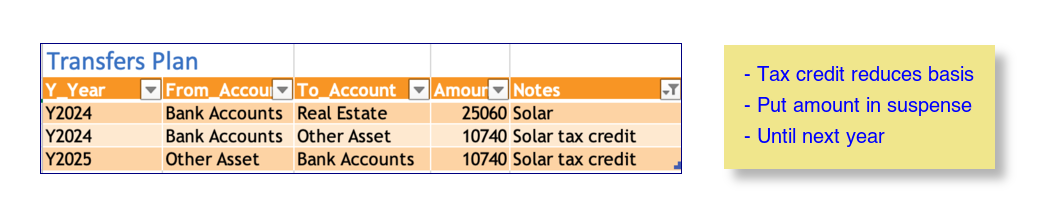
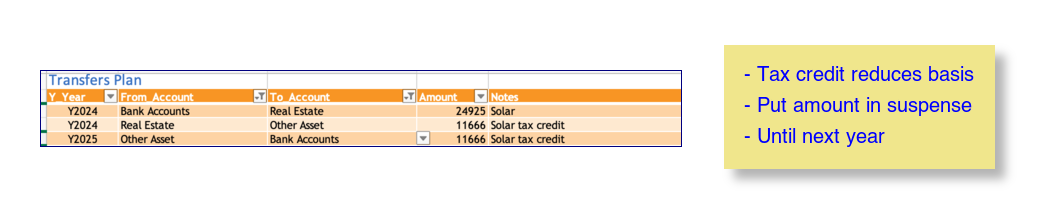
expand current tab to have all iande rows.  improve doc.

Changed region(s): [[0.0307, 0.1927, 0.6756, 0.7982]]

diff --git a/dance/iande_actl_load.py b/dance/iande_actl_load.py
@@ -3,6 +3,7 @@
 Copies data from "data/iande.tsv" into tab "iande" after doing some checks.
 '''
 import argparse
+import os
 
 import pandas as pd
 from openpyxl import load_workbook
@@ -172,11 +173,18 @@ def main():
   
   args=parser.parse_args()
   path=args.path
+  IANDE,CURRENT='iande.tsv','iande_ytd.tsv'
   if path is None:
-    path={'iande':'data/iande.tsv','current':'data/iande_ytd.tsv'}[args.sheet]
+    fn={'iande':IANDE,'current':CURRENT}[args.sheet]
+    path=os.path.join('data',fn)
   ffy=config['first_forecast_year']
   table_info=config['sheets'][args.sheet]['tables'][0]
   data=read_iande_actl(data_info={'path':path})
+  if args.sheet=='current': # expand to match the rows in the iande table
+    dir=os.path.split(path)[0]
+    ref=read_iande_actl(data_info={'path':os.path.join(dir,IANDE)})
+    ref=ref[['Account']]
+    data=ref.merge(data,on='Account',how='left')
   table='tbl_'+args.sheet
   data,fold_groups=prepare_iande_actl(workbook=args.workbook,target_sheet=args.sheet,df=data,force=args.force,f_fcast='Y%04d'%ffy)
   data=forecast_formulas(table_info,data,ffy) # insert forecast formulas per config
